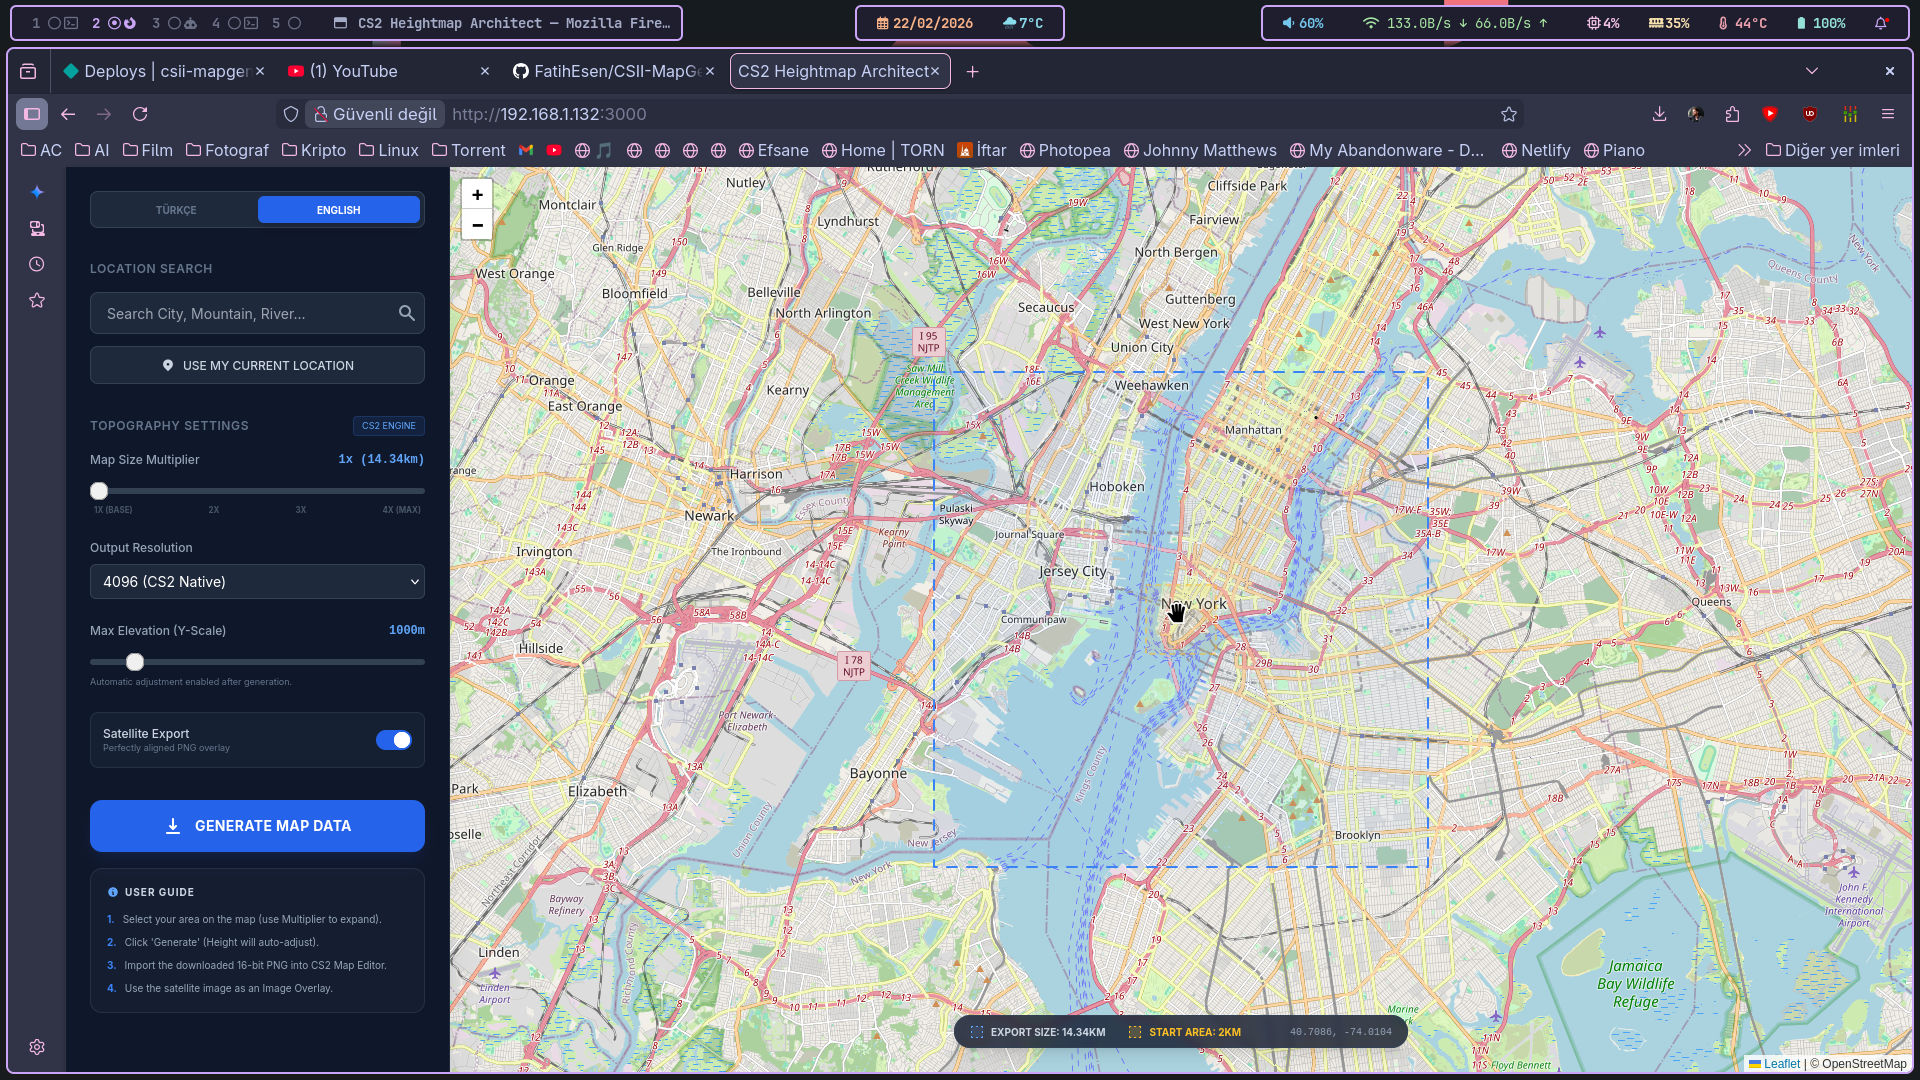
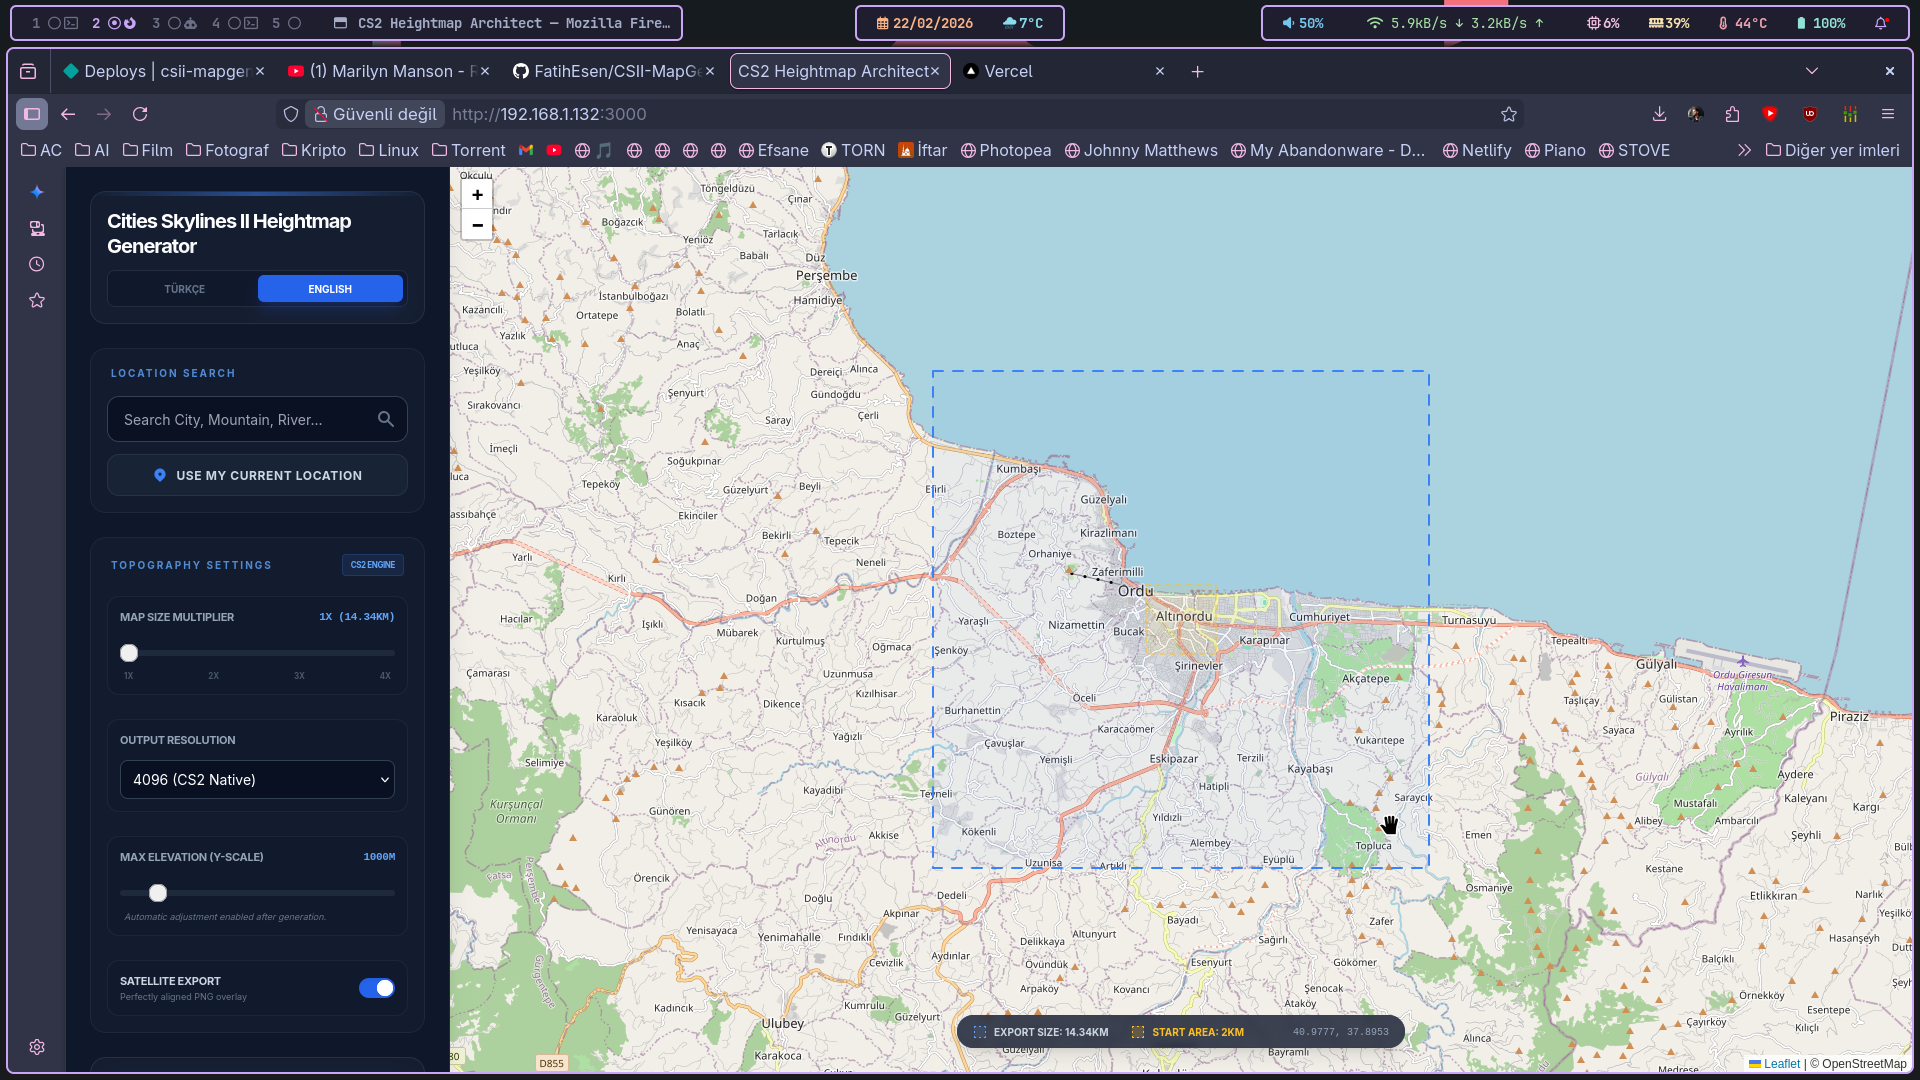
birkaç değişiklik

diff --git a/components/Sidebar.tsx b/components/Sidebar.tsx
@@ -32,36 +32,44 @@ export const Sidebar: React.FC<SidebarProps> = ({
   const t = translations[settings.language];
 
   return (
-    <div className="p-6 space-y-8">
-      {/* Language Switcher */}
-      <div className="flex items-center justify-between p-1 bg-slate-800 rounded-lg border border-slate-700 w-full mb-2">
-        <button
-          onClick={() => setSettings({ ...settings, language: 'tr' })}
-          className={`flex-1 px-3 py-1.5 rounded-md text-[10px] font-bold transition-all ${settings.language === 'tr' ? 'bg-blue-600 text-white shadow-lg' : 'text-slate-500 hover:text-slate-300'}`}
-        >
-          TÜRKÇE
-        </button>
-        <button
-          onClick={() => setSettings({ ...settings, language: 'en' })}
-          className={`flex-1 px-3 py-1.5 rounded-md text-[10px] font-bold transition-all ${settings.language === 'en' ? 'bg-blue-600 text-white shadow-lg' : 'text-slate-500 hover:text-slate-300'}`}
-        >
-          ENGLISH
-        </button>
+    <div className="p-6 space-y-6 bg-slate-900/50 min-h-full">
+      {/* App Title & Header Frame */}
+      <div className="relative p-4 bg-slate-800/40 rounded-2xl border border-slate-700/50 shadow-inner group overflow-hidden">
+        <div className="absolute top-0 left-0 w-full h-1 bg-gradient-to-r from-transparent via-blue-500/50 to-transparent"></div>
+        <div className="relative z-10">
+          <h1 className="text-xl font-extrabold tracking-tighter leading-tight bg-gradient-to-br from-white via-white to-slate-400 bg-clip-text text-transparent">
+            {t.title}
+          </h1>
+          <div className="mt-3 flex items-center justify-between p-1 bg-slate-900/80 rounded-lg border border-slate-700/50 w-full">
+            <button
+              onClick={() => setSettings({ ...settings, language: 'tr' })}
+              className={`flex-1 px-3 py-1.5 rounded-md text-[10px] font-bold transition-all ${settings.language === 'tr' ? 'bg-blue-600 text-white shadow-lg shadow-blue-900/40' : 'text-slate-500 hover:text-slate-300'}`}
+            >
+              TÜRKÇE
+            </button>
+            <button
+              onClick={() => setSettings({ ...settings, language: 'en' })}
+              className={`flex-1 px-3 py-1.5 rounded-md text-[10px] font-bold transition-all ${settings.language === 'en' ? 'bg-blue-600 text-white shadow-lg shadow-blue-900/40' : 'text-slate-500 hover:text-slate-300'}`}
+            >
+              ENGLISH
+            </button>
+          </div>
+        </div>
       </div>
 
-      {/* Search Section */}
-      <section>
-        <h2 className="text-xs font-semibold uppercase tracking-wider text-slate-500 mb-4">{settings.language === 'tr' ? 'KONUM ARAMA' : 'LOCATION SEARCH'}</h2>
+      {/* Search Section Frame */}
+      <section className="p-4 bg-slate-800/30 rounded-2xl border border-slate-700/30 space-y-4">
+        <h2 className="text-[10px] font-bold uppercase tracking-[0.2em] text-blue-400/80 px-1">{settings.language === 'tr' ? 'KONUM ARAMA' : 'LOCATION SEARCH'}</h2>
         <form onSubmit={handleSearchSubmit} className="space-y-3">
-          <div className="relative">
+          <div className="relative group">
             <input
               type="text"
               placeholder={t.searchPlaceholder}
               value={searchQuery}
               onChange={(e) => setSearchQuery(e.target.value)}
-              className="w-full bg-slate-800 border border-slate-700 rounded-lg px-4 py-2.5 text-sm text-white focus:outline-none focus:ring-2 focus:ring-blue-500 pr-10"
+              className="w-full bg-slate-950/50 border border-slate-700 rounded-xl px-4 py-3 text-sm text-white focus:outline-none focus:ring-2 focus:ring-blue-500/50 pr-10 transition-all group-hover:border-slate-600"
             />
-            <button type="submit" className="absolute right-2 top-1/2 -translate-y-1/2 text-slate-400 hover:text-white transition-colors">
+            <button type="submit" className="absolute right-3 top-1/2 -translate-y-1/2 text-slate-500 hover:text-white transition-colors">
               <svg xmlns="http://www.w3.org/2000/svg" className="h-5 w-5" viewBox="0 0 20 20" fill="currentColor">
                 <path fillRule="evenodd" d="M8 4a4 4 0 100 8 4 4 0 000-8zM2 8a6 6 0 1110.89 3.476l4.817 4.817a1 1 0 01-1.414 1.414l-4.816-4.816A6 6 0 012 8z" clipRule="evenodd" />
               </svg>
@@ -70,50 +78,50 @@ export const Sidebar: React.FC<SidebarProps> = ({
           <button
             type="button"
             onClick={onUseLocation}
-            className="w-full bg-slate-800 hover:bg-slate-700 text-slate-300 text-xs font-medium py-2.5 rounded-lg border border-slate-700 transition-colors flex items-center justify-center space-x-2"
+            className="w-full bg-slate-800/50 hover:bg-slate-700/50 text-slate-300 text-xs font-bold py-3 rounded-xl border border-slate-700/50 transition-all flex items-center justify-center space-x-2 active:scale-95"
           >
-            <svg xmlns="http://www.w3.org/2000/svg" className="h-3.5 w-3.5" viewBox="0 0 20 20" fill="currentColor">
+            <svg xmlns="http://www.w3.org/2000/svg" className="h-4 w-4 text-blue-500" viewBox="0 0 20 20" fill="currentColor">
               <path fillRule="evenodd" d="M5.05 4.05a7 7 0 119.9 9.9L10 18.9l-4.95-4.95a7 7 0 010-9.9zM10 11a2 2 0 100-4 2 2 0 000 4z" clipRule="evenodd" />
             </svg>
-            <span>{t.useMyLocation}</span>
+            <span className="uppercase tracking-wider">{t.useMyLocation}</span>
           </button>
         </form>
       </section>
 
-      {/* Settings Section */}
-      <section>
-        <div className="flex items-center justify-between mb-4">
-          <h2 className="text-xs font-semibold uppercase tracking-wider text-slate-500">{t.topographySettings}</h2>
-          <span className="bg-blue-500/10 text-blue-400 text-[9px] px-2 py-0.5 rounded border border-blue-500/20">{t.engine}</span>
+      {/* Settings Section Frame */}
+      <section className="p-4 bg-slate-800/30 rounded-2xl border border-slate-700/30">
+        <div className="flex items-center justify-between mb-5 px-1">
+          <h2 className="text-[10px] font-bold uppercase tracking-[0.2em] text-blue-400/80">{t.topographySettings}</h2>
+          <span className="bg-blue-500/10 text-blue-400 text-[8px] px-2 py-1 rounded border border-blue-500/20 font-black uppercase tracking-tighter">{t.engine}</span>
         </div>
 
         <div className="space-y-6">
           {/* Map Multiplier */}
-          <div>
-            <label className="flex justify-between text-xs font-medium text-slate-400 mb-2">
+          <div className="p-3 bg-slate-900/40 rounded-xl border border-slate-700/30">
+            <label className="flex justify-between text-[11px] font-bold text-slate-400 mb-3 uppercase tracking-tight">
               <span>{t.mapSizeMultiplier}</span>
-              <span className="text-blue-400 font-mono font-bold">{settings.sizeMultiplier}x ({currentSizeKm}km)</span>
+              <span className="text-blue-400 font-mono">{settings.sizeMultiplier}x ({currentSizeKm}km)</span>
             </label>
             <input
               type="range" min="1" max="4" step="0.5"
               value={settings.sizeMultiplier}
               onChange={(e) => setSettings({ ...settings, sizeMultiplier: Number(e.target.value) })}
-              className="w-full h-1.5 bg-slate-700 rounded-lg appearance-none cursor-pointer accent-blue-500"
+              className="w-full h-1.5 bg-slate-800 rounded-lg appearance-none cursor-pointer accent-blue-500"
             />
-            <div className="flex justify-between text-[8px] text-slate-600 mt-1 uppercase font-bold px-1">
-              <span>1x ({t.base})</span>
+            <div className="flex justify-between text-[8px] text-slate-600 mt-2 uppercase font-black px-1">
+              <span>1x</span>
               <span>2x</span>
               <span>3x</span>
-              <span>4x ({t.max})</span>
+              <span>4x</span>
             </div>
           </div>
 
-          <div>
-            <label className="block text-xs font-medium text-slate-400 mb-2">{t.outputResolution}</label>
+          <div className="p-3 bg-slate-900/40 rounded-xl border border-slate-700/30">
+            <label className="block text-[11px] font-bold text-slate-400 mb-3 uppercase tracking-tight">{t.outputResolution}</label>
             <select
               value={settings.resolution}
               onChange={(e) => setSettings({ ...settings, resolution: Number(e.target.value) })}
-              className="w-full bg-slate-800 border border-slate-700 rounded-md px-3 py-2 text-sm text-white focus:outline-none focus:ring-2 focus:ring-blue-500 transition-all"
+              className="w-full bg-slate-950/50 border border-slate-700 rounded-lg px-3 py-2.5 text-sm text-white focus:outline-none focus:ring-2 focus:ring-blue-500/50 transition-all"
             >
               <option value={1024}>1024 ({settings.language === 'tr' ? 'Test' : 'Testing'})</option>
               <option value={2048}>2048 ({settings.language === 'tr' ? 'Yüksek' : 'High'})</option>
@@ -121,23 +129,23 @@ export const Sidebar: React.FC<SidebarProps> = ({
             </select>
           </div>
 
-          <div>
-            <label className="flex justify-between text-xs font-medium text-slate-400 mb-2">
+          <div className="p-3 bg-slate-900/40 rounded-xl border border-slate-700/30">
+            <label className="flex justify-between text-[11px] font-bold text-slate-400 mb-3 uppercase tracking-tight">
               <span>{t.maxElevation}</span>
-              <span className="text-blue-400 font-mono font-bold">{settings.maxHeight}m</span>
+              <span className="text-blue-400 font-mono">{settings.maxHeight}m</span>
             </label>
             <input
               type="range" min="100" max="8000" step="10"
               value={settings.maxHeight}
               onChange={(e) => setSettings({ ...settings, maxHeight: Number(e.target.value) })}
-              className="w-full h-1.5 bg-slate-700 rounded-lg appearance-none cursor-pointer accent-blue-500 overflow-visible"
+              className="w-full h-1.5 bg-slate-800 rounded-lg appearance-none cursor-pointer accent-blue-500"
             />
-            <p className="text-[9px] text-slate-500 mt-1">{t.autoAdjustHint}</p>
+            <p className="text-[9px] text-slate-500 mt-2 italic px-1">{t.autoAdjustHint}</p>
           </div>
 
-          <div className="flex items-center justify-between p-3 bg-slate-800/50 rounded-lg border border-slate-700/50">
+          <div className="flex items-center justify-between p-3 bg-slate-900/40 rounded-xl border border-slate-700/30">
             <div className="flex flex-col">
-              <span className="text-xs font-medium text-slate-300">{t.satelliteExport}</span>
+              <span className="text-[11px] font-bold text-slate-300 uppercase tracking-tight">{t.satelliteExport}</span>
               <span className="text-[9px] text-slate-500">{t.satelliteHint}</span>
             </div>
             <label className="relative inline-flex items-center cursor-pointer">
@@ -147,76 +155,75 @@ export const Sidebar: React.FC<SidebarProps> = ({
                 checked={settings.exportSatellite}
                 onChange={(e) => setSettings({ ...settings, exportSatellite: e.target.checked })}
               />
-              <div className="w-9 h-5 bg-slate-700 peer-focus:outline-none rounded-full peer peer-checked:after:translate-x-full peer-checked:after:border-white after:content-[''] after:absolute after:top-[2px] after:left-[2px] after:bg-white after:border-gray-300 after:border after:rounded-full after:h-4 after:w-4 after:transition-all peer-checked:bg-blue-600"></div>
+              <div className="w-9 h-5 bg-slate-700 peer-focus:outline-none rounded-full peer peer-checked:after:translate-x-full peer-checked:after:border-white after:content-[''] after:absolute after:top-[2px] after:left-[2px] after:bg-white after:border-gray-300 after:border after:rounded-full after:h-4 after:w-4 after:transition-all peer-checked:bg-blue-600 shadow-inner"></div>
             </label>
           </div>
         </div>
       </section>
 
-      <div className="space-y-4">
+      {/* Action Area Frame */}
+      <div className="p-4 bg-slate-800/40 rounded-2xl border border-slate-700/50 shadow-2xl space-y-4">
         <div className="space-y-2">
           <button
             onClick={onGenerate}
             disabled={isGenerating}
-            className="w-full bg-blue-600 hover:bg-blue-500 disabled:bg-slate-700 text-white font-bold py-4 px-4 rounded-xl transition-all flex items-center justify-center space-x-3 shadow-lg shadow-blue-900/20 active:scale-[0.98]"
+            className="w-full bg-gradient-to-br from-blue-600 to-blue-700 hover:from-blue-500 hover:to-blue-600 disabled:from-slate-700 disabled:to-slate-800 text-white font-black py-5 px-4 rounded-xl transition-all flex items-center justify-center space-x-3 shadow-[0_10px_20px_rgba(37,99,235,0.2)] active:scale-[0.98] border border-blue-400/20"
           >
             {isGenerating ? (
-              <div className="flex items-center space-x-2">
-                <div className="animate-spin h-4 w-4 border-2 border-white border-t-transparent rounded-full" />
-                <span className="text-sm uppercase font-bold">{t.fetchingData}</span>
+              <div className="flex items-center space-x-3">
+                <div className="animate-spin h-5 w-5 border-2 border-white border-t-transparent rounded-full" />
+                <span className="text-sm uppercase tracking-widest">{t.fetchingData}</span>
               </div>
             ) : (
               <>
-                <svg xmlns="http://www.w3.org/2000/svg" className="h-5 w-5" viewBox="0 0 20 20" fill="currentColor">
+                <svg xmlns="http://www.w3.org/2000/svg" className="h-6 w-6" viewBox="0 0 20 20" fill="currentColor">
                   <path fillRule="evenodd" d="M3 17a1 1 0 011-1h12a1 1 0 110 2H4a1 1 0 01-1-1zm3.293-7.707a1 1 0 011.414 0L9 10.586V3a1 1 0 112 0v7.586l1.293-1.293a1 1 0 111.414 1.414l-3 3a1 1 0 01-1.414 0l-3-3a1 1 0 010-1.414z" clipRule="evenodd" />
                 </svg>
-                <span className="text-sm uppercase tracking-wide font-bold">{t.generateButton}</span>
+                <span className="text-sm uppercase tracking-[0.15em] font-black">{t.generateButton}</span>
               </>
             )}
           </button>
 
           {isGenerating && (
-            <div className="w-full bg-slate-800 rounded-full h-1.5 mt-2 overflow-hidden">
+            <div className="w-full bg-slate-950 rounded-full h-2 mt-3 p-0.5 border border-slate-800 shadow-inner overflow-hidden">
               <div
-                className="bg-blue-500 h-full transition-all duration-300"
+                className="bg-gradient-to-r from-blue-600 to-blue-400 h-full rounded-full transition-all duration-300 shadow-[0_0_10px_rgba(59,130,246,0.5)]"
                 style={{ width: `${progress}%` }}
               ></div>
             </div>
           )}
         </div>
 
-        {/* Usage Instructions */}
-        <section className="bg-slate-800/40 border border-slate-700/50 rounded-xl p-4">
-          <h3 className="text-[10px] font-bold text-slate-300 uppercase tracking-widest mb-3 flex items-center">
-            <svg xmlns="http://www.w3.org/2000/svg" className="h-3 w-3 mr-1.5 text-blue-400" viewBox="0 0 20 20" fill="currentColor">
-              <path fillRule="evenodd" d="M18 10a8 8 0 11-16 0 8 8 0 0116 0zm-7-4a1 1 0 11-2 0 1 1 0 012 0zM9 9a1 1 0 000 2v3a1 1 0 001 1h1a1 1 0 100-2v-3a1 1 0 00-1-1H9z" clipRule="evenodd" />
-            </svg>
+        {/* Usage Instructions Frame */}
+        <section className="bg-slate-950/40 border border-slate-700/30 rounded-xl p-4 shadow-inner">
+          <h3 className="text-[10px] font-black text-slate-400 uppercase tracking-[0.2em] mb-4 flex items-center">
+            <span className="w-1.5 h-1.5 bg-blue-500 rounded-full mr-2 shadow-[0_0_5px_rgba(59,130,246,0.5)]"></span>
             {t.guideTitle}
           </h3>
-          <ul className="space-y-2 text-[10px] text-slate-400">
+          <ul className="space-y-3 text-[10px] text-slate-400 leading-relaxed">
             <li className="flex items-start">
-              <span className="text-blue-500 font-bold mr-2">1.</span>
-              {t.guideStep1}
+              <span className="text-blue-500 font-black mr-2 bg-blue-500/10 px-1.5 py-0.5 rounded border border-blue-500/20">1</span>
+              <span>{t.guideStep1}</span>
             </li>
             <li className="flex items-start">
-              <span className="text-blue-500 font-bold mr-2">2.</span>
-              {t.guideStep2}
+              <span className="text-blue-500 font-black mr-2 bg-blue-500/10 px-1.5 py-0.5 rounded border border-blue-500/20">2</span>
+              <span>{t.guideStep2}</span>
             </li>
             <li className="flex items-start">
-              <span className="text-blue-500 font-bold mr-2">3.</span>
-              {t.guideStep3}
+              <span className="text-blue-500 font-black mr-2 bg-blue-500/10 px-1.5 py-0.5 rounded border border-blue-500/20">3</span>
+              <span>{t.guideStep3}</span>
             </li>
             <li className="flex items-start">
-              <span className="text-blue-500 font-bold mr-2">4.</span>
-              {t.guideStep4}
+              <span className="text-blue-500 font-black mr-2 bg-blue-500/10 px-1.5 py-0.5 rounded border border-blue-500/20">4</span>
+              <span>{t.guideStep4}</span>
             </li>
           </ul>
         </section>
       </div>
 
-      <footer className="pt-8 flex flex-col items-center space-y-1">
-        <p className="text-[9px] text-slate-600 font-medium">CS2 Heightmap Generator v5.1</p>
-        <p className="text-[9px] text-slate-700 uppercase tracking-tighter">{t.professionalTool}</p>
+      <footer className="pt-4 flex flex-col items-center space-y-1 opacity-50">
+        <p className="text-[9px] text-slate-500 font-bold tracking-widest">CS2 HEIGHTMAP GEN V5.1</p>
+        <p className="text-[8px] text-slate-600 uppercase tracking-tighter">{t.professionalTool}</p>
       </footer>
     </div>
   );

diff --git a/components/PreviewPanel.tsx b/components/PreviewPanel.tsx
@@ -185,17 +185,6 @@ export const PreviewPanel: React.FC<PreviewPanelProps> = ({ data, satelliteUrl, 
 
   return (
     <div className="flex flex-col space-y-4 animate-in fade-in slide-in-from-right-4 duration-500">
-      {/* Integrated Header Panel */}
-      <div className="bg-slate-900/95 backdrop-blur-xl border border-slate-700/50 rounded-2xl p-5 shadow-2xl">
-        <div className="flex items-center space-x-3 mb-1">
-          <div className="w-2 h-8 bg-blue-500 rounded-full shadow-[0_0_15px_rgba(59,130,246,0.5)]"></div>
-          <div>
-            <h1 className="text-lg font-black text-white tracking-tight leading-none">{t.title}</h1>
-            <p className="text-[9px] text-blue-400 uppercase tracking-[0.2em] font-bold mt-1 opacity-80">{t.subtitle}</p>
-          </div>
-        </div>
-      </div>
-
       {/* Main Preview Container */}
       <div className="bg-slate-900 border border-slate-700 rounded-2xl shadow-2xl p-5 flex flex-col items-center backdrop-blur-md">
         <div className="flex w-full justify-between items-center mb-4">
@@ -231,8 +220,8 @@ export const PreviewPanel: React.FC<PreviewPanelProps> = ({ data, satelliteUrl, 
             <button
               onClick={() => setViewMode('heightmap')}
               className={`px-2 py-1 rounded-md text-[9px] font-bold border transition-all ${viewMode === 'heightmap'
-                  ? 'bg-blue-600 border-blue-400 text-white'
-                  : 'bg-slate-900/80 border-slate-700 text-slate-400'
+                ? 'bg-blue-600 border-blue-400 text-white'
+                : 'bg-slate-900/80 border-slate-700 text-slate-400'
                 }`}
             >
               {t.heightMode}
@@ -241,8 +230,8 @@ export const PreviewPanel: React.FC<PreviewPanelProps> = ({ data, satelliteUrl, 
               <button
                 onClick={() => setViewMode('satellite')}
                 className={`px-2 py-1 rounded-md text-[9px] font-bold border transition-all ${viewMode === 'satellite'
-                    ? 'bg-blue-600 border-blue-400 text-white'
-                    : 'bg-slate-900/80 border-slate-700 text-slate-400'
+                  ? 'bg-blue-600 border-blue-400 text-white'
+                  : 'bg-slate-900/80 border-slate-700 text-slate-400'
                   }`}
               >
                 {t.satMode}
@@ -254,8 +243,8 @@ export const PreviewPanel: React.FC<PreviewPanelProps> = ({ data, satelliteUrl, 
             <button
               onClick={() => setAutoContrast(!autoContrast)}
               className={`absolute top-2 right-2 px-2 py-1 rounded-md text-[9px] font-bold border transition-all ${autoContrast
-                  ? 'bg-blue-500/20 border-blue-500/50 text-blue-300'
-                  : 'bg-slate-800/50 border-slate-600/50 text-slate-500'
+                ? 'bg-blue-500/20 border-blue-500/50 text-blue-300'
+                : 'bg-slate-800/50 border-slate-600/50 text-slate-500'
                 }`}
             >
               {autoContrast ? t.contrastOn : t.contrastRaw}
